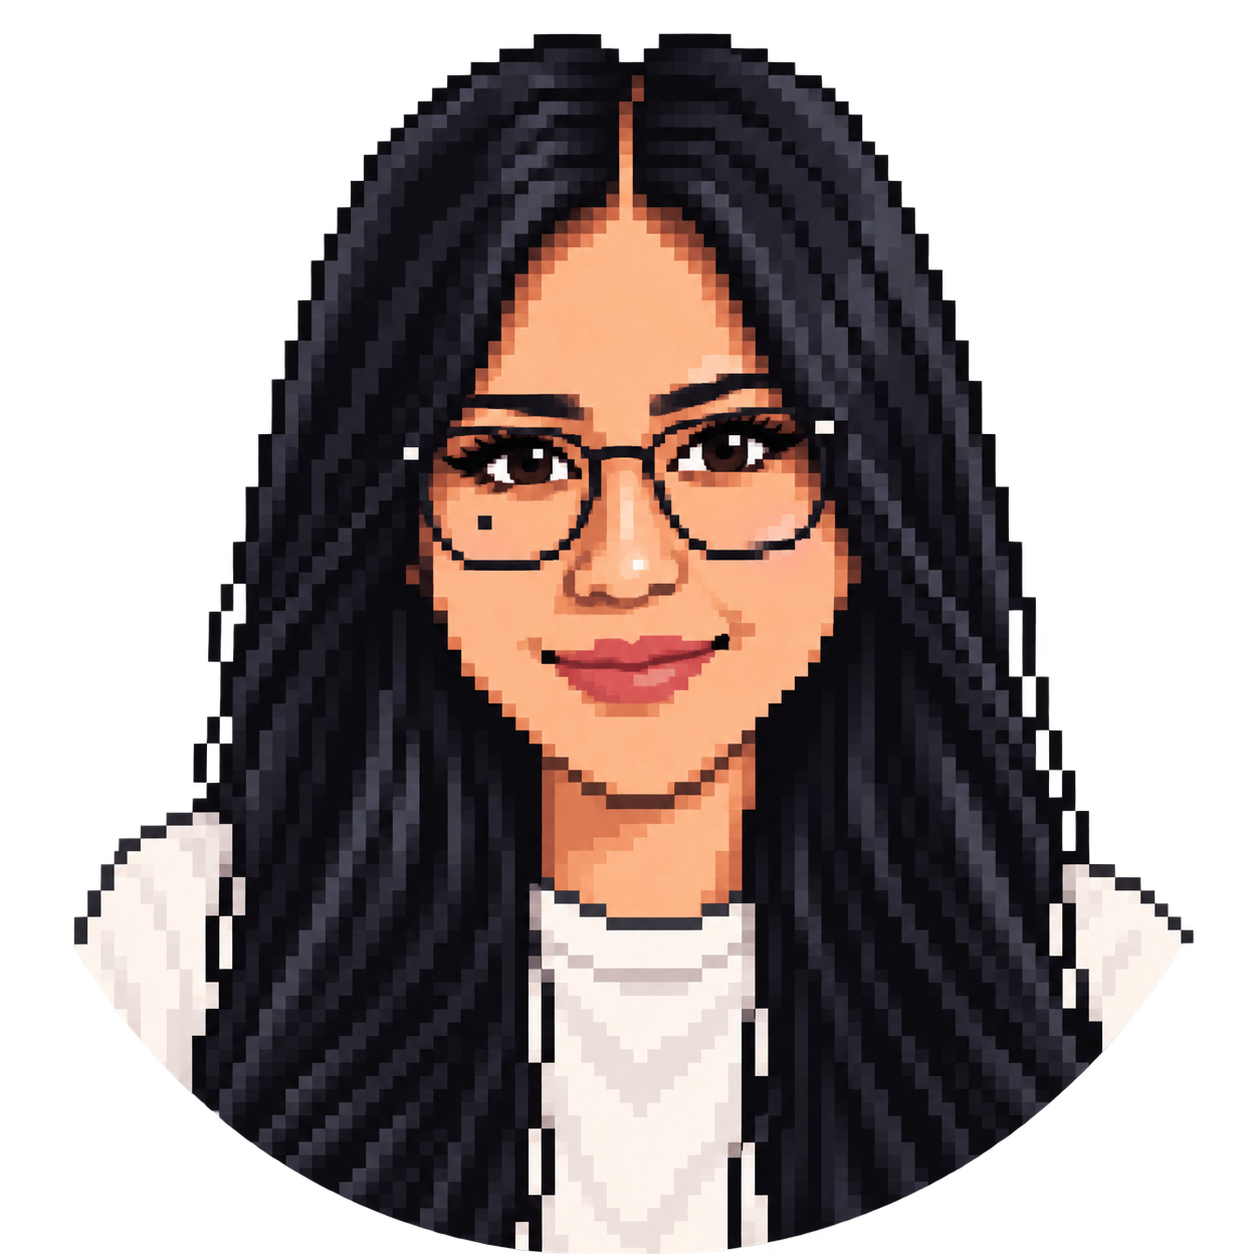
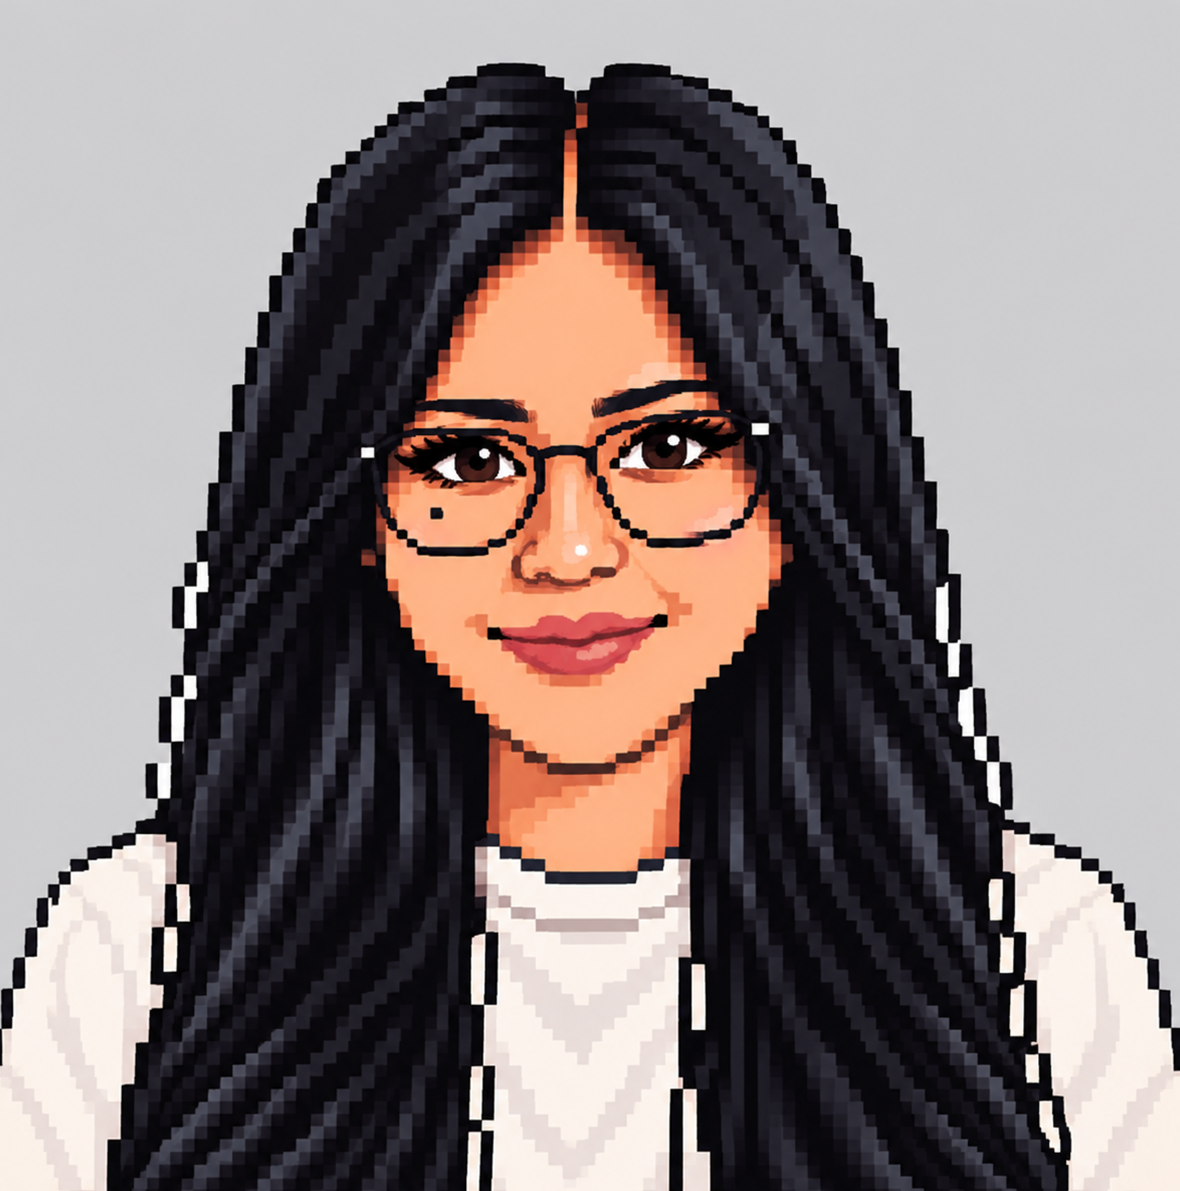
Se cambio foto de perfil y se organizo el tamaño

diff --git a/src/styles/Home.css b/src/styles/Home.css
@@ -269,13 +269,15 @@
 }
 
 .profile-placeholder {
-    height: 280px;
+    width: calc(100% - 26px);
+    aspect-ratio: 1 / 1;
+    height: auto;
     margin: 13px;
     border: 2px dashed #b7b7b7;
     display: flex;
-    flex-direction: column;
     align-items: center;
     justify-content: center;
+    overflow: hidden;
     color: #a0a0a0;
     text-align: center;
 }
@@ -294,7 +296,7 @@
     display: block;
     width: 100%;
     height: 100%;
-    object-fit: contain;
+    object-fit: fill;
     object-position: center;
 }
 
